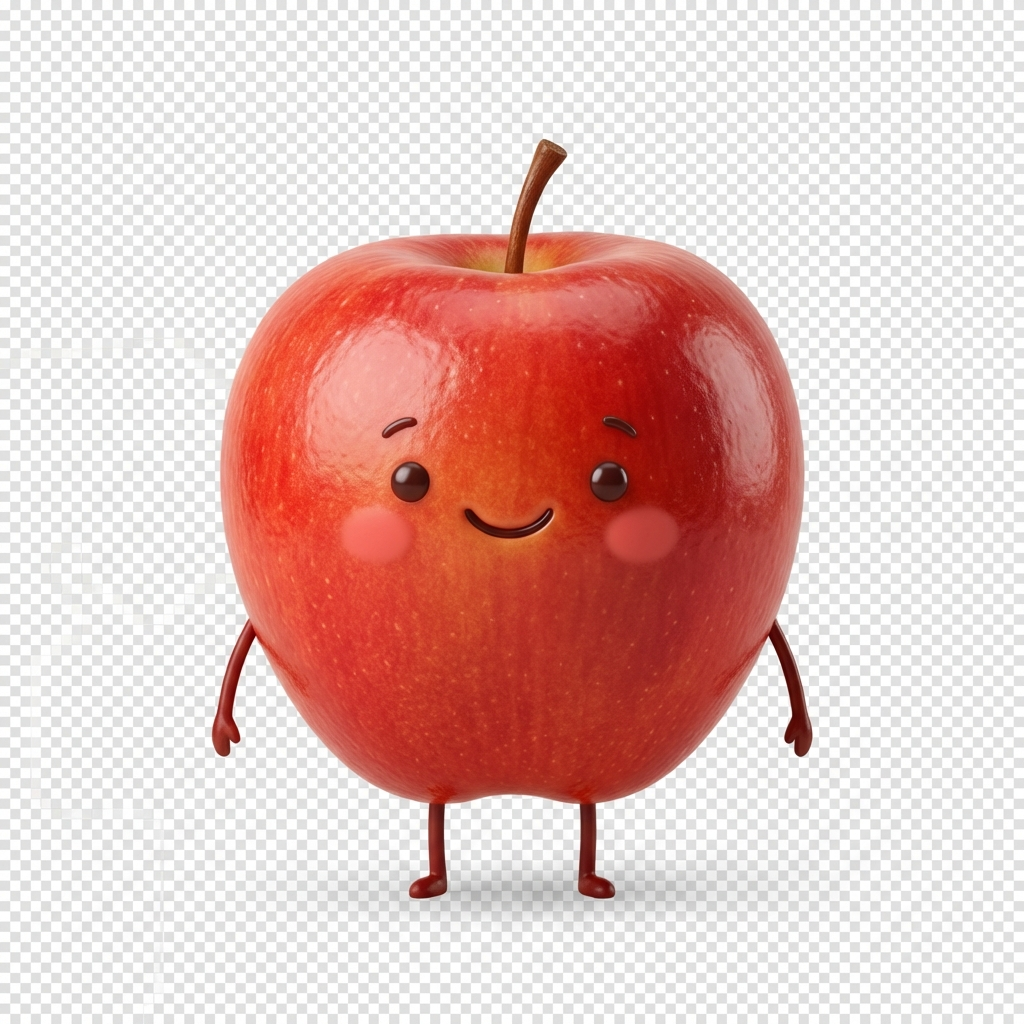
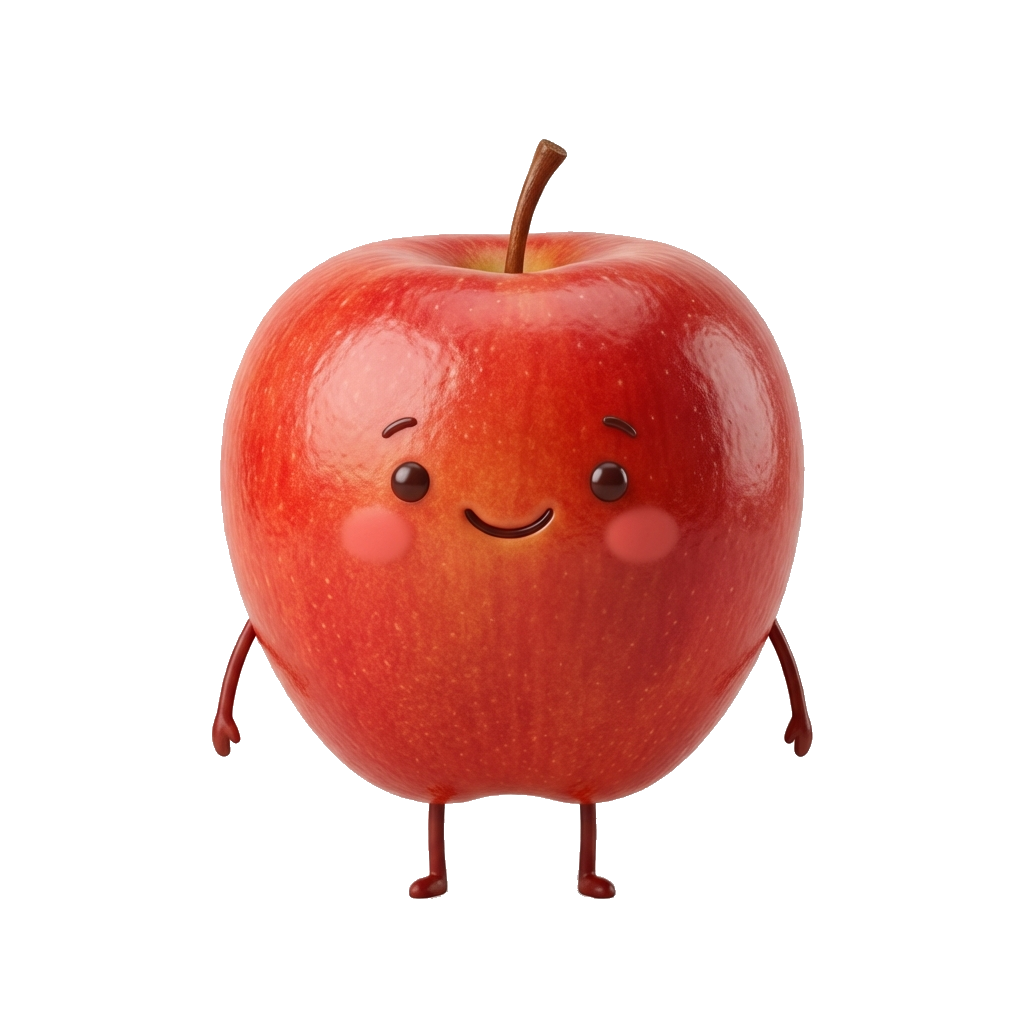
Fix: Build error by updating image format and paths, update support email, and improve login transition UX

diff --git a/mobile/app/login.tsx b/mobile/app/login.tsx
@@ -1,5 +1,5 @@
 import React, { useEffect } from 'react';
-import { View, Text, TouchableOpacity, Dimensions, StyleSheet, Image } from 'react-native';
+import { View, Text, TouchableOpacity, Dimensions, StyleSheet, Image, Modal } from 'react-native';
 import { SafeAreaView } from 'react-native-safe-area-context';
 import { BlurView } from 'expo-blur';
 import { LinearGradient } from 'expo-linear-gradient';
@@ -16,14 +16,16 @@ import { useRouter } from 'expo-router';
 import { signInWithSocial } from '../src/lib/auth_service';
 import { ActivityIndicator } from 'react-native';
 import { useAlert } from '../src/context/AlertContext';
+import { useTranslation } from '../src/lib/i18n';
 
 const { width, height } = Dimensions.get('window');
 const fruitCharacter = require('../assets/applei.png');
-const googleLogo = require('../assets/google_logo.png');
+const googleLogo = require('../assets/google_logo.jpg');
 
 export default function LoginScreen() {
     const router = useRouter();
     const { showAlert } = useAlert();
+    const { language } = useTranslation();
     const bobValue = useSharedValue(0);
     const [isLoading, setIsLoading] = React.useState(false);
 
@@ -127,16 +129,21 @@ export default function LoginScreen() {
                 </View>
             </SafeAreaView>
 
-            {/* Loading Overlay */}
-            {isLoading && (
+            {/* Premium Loading Overlay */}
+            <Modal transparent visible={isLoading} animationType="fade">
                 <View style={[StyleSheet.absoluteFill, styles.loadingOverlay]}>
-                    <BlurView intensity={30} tint="light" style={StyleSheet.absoluteFill} />
-                    <View style={styles.loadingContent}>
+                    <BlurView intensity={80} tint="dark" style={StyleSheet.absoluteFill} />
+                    <Animated.View
+                        entering={FadeInDown}
+                        style={styles.loadingContent}
+                    >
                         <ActivityIndicator size="large" color="#10B981" />
-                        <Text style={{ marginTop: 15, fontWeight: 'bold', color: '#10B981' }}>연결 중...</Text>
-                    </View>
+                        <Text style={{ marginTop: 15, fontWeight: 'bold', color: '#10B981', fontSize: 16 }}>
+                            {language === 'Korean' ? '계정 연결 중...' : 'Connecting...'}
+                        </Text>
+                    </Animated.View>
                 </View>
-            )}
+            </Modal>
         </View>
     );
 }

diff --git a/mobile/app/(tabs)/profile.tsx b/mobile/app/(tabs)/profile.tsx
@@ -887,7 +887,7 @@ export default function ProfileScreen() {
                                 <View style={styles.menuContainer}>
                                     <TouchableOpacity style={styles.menuItem} onPress={() => {
                                         triggerHaptic();
-                                        Linking.openURL('mailto:support@foodcoach.ai?subject=Support Request');
+                                        Linking.openURL('mailto:foodcoach.dev@gmail.com?subject=Support Request');
                                     }}>
                                         <Info size={20} color="#64748b" />
                                         <Text style={[styles.menuTitle, { marginLeft: 16 }]}>{t('helpCenter')}</Text>

diff --git a/mobile/app/onboarding.tsx b/mobile/app/onboarding.tsx
@@ -317,7 +317,7 @@ export default function EnhancedOnboarding() {
 }
 
 const styles = StyleSheet.create({
-    root: { flex: 1 },
+    root: { flex: 1, backgroundColor: '#F0FDFA' },
     safeArea: { flex: 1 },
     header: {
         flexDirection: 'row',
